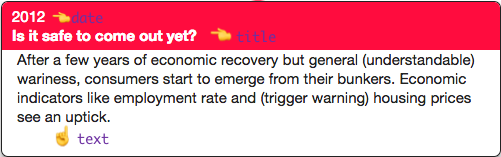
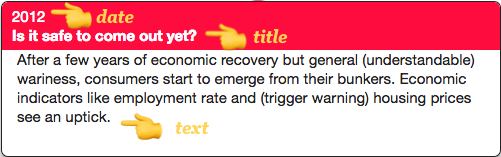
add example annotated card, support card date format

diff --git a/website/src/js/website.js b/website/src/js/website.js
@@ -187,7 +187,7 @@ function validateConfigForm() {
   var valid = true;
   var selections = [];
   var config_area = document.getElementById('storyline-config');
-  var selects = config_area.querySelectorAll('select');
+  var selects = config_area.querySelectorAll('select.required');
   for (var i = 0; i < selects.length; i++) {
     valid = validateRequiredInput(selects[i]) && valid;
   }
@@ -257,7 +257,7 @@ function buildStorylineUrl() {
       dataYCol:  document.getElementById('data_column_name').value,
       dataXCol: document.getElementById('datetime_column_name').value,
       dataDateFormat: document.getElementById('datetime_format').value,
-      chartDateFormat: document.getElementById('datetime_format').value,
+      chartDateFormat: document.getElementById('card_date_format').value || document.getElementById('datetime_format').value,
       chartYLabel: document.getElementById('data_axis_label').value,
       // sliderStartCard: "start_at_card",
       sliderCardTitleCol: document.getElementById('title').value,
